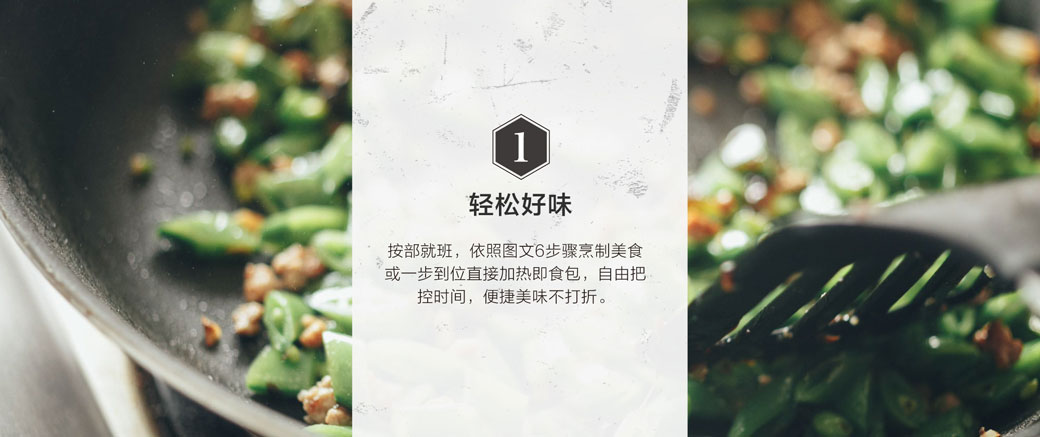
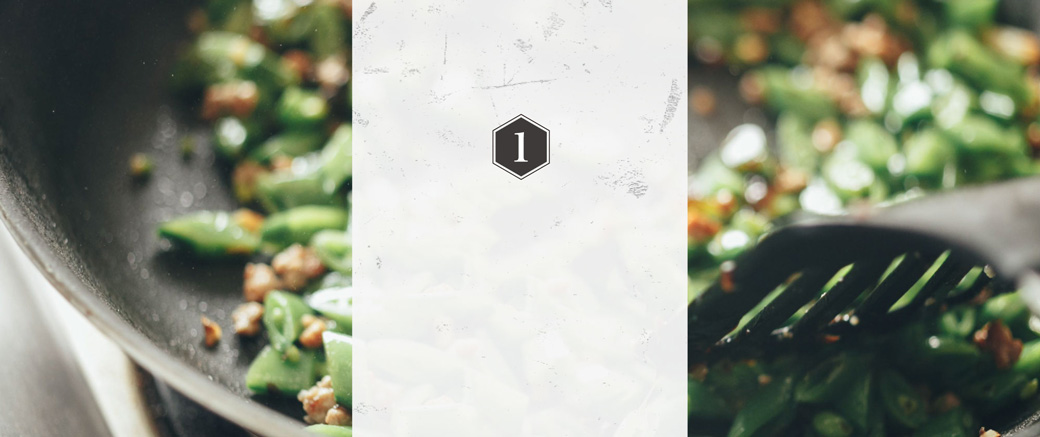
update why us

Changed region(s): [[0.3692, 0.5355, 0.6154, 0.714], [0.4308, 0.4462, 0.5538, 0.5057]]

diff --git a/app/public/pc/src/sass/_why-us.scss b/app/public/pc/src/sass/_why-us.scss
@@ -16,4 +16,41 @@
   img {
     padding-bottom: 8px;
   }
+  .reason {
+    width: 1040px;
+    height: 437px;
+    margin: 0 auto 8px;
+    background: no-repeat;
+    text-align: center;
+    h5 {
+      font-size: 27px;
+      padding-top: 189px;
+      font-weight: 600;
+    }
+    p {
+      margin: 21px auto;
+      font-size: 16px;
+      font-weight: 300;
+      width: 280px;
+      text-align: justify;
+    }
+    &:nth-of-type(1) {
+      background-image: url(../images/whyus/1.jpg)
+    }
+    &:nth-of-type(2) {
+      background-image: url(../images/whyus/2.jpg)
+    }
+    &:nth-of-type(3) {
+      background-image: url(../images/whyus/3.jpg)
+    }
+    &:nth-of-type(4) {
+      background-image: url(../images/whyus/4.jpg)
+    }
+
+    &.en {
+      h5 {
+        font-size: 22px;
+      }
+    }
+  }
 }
